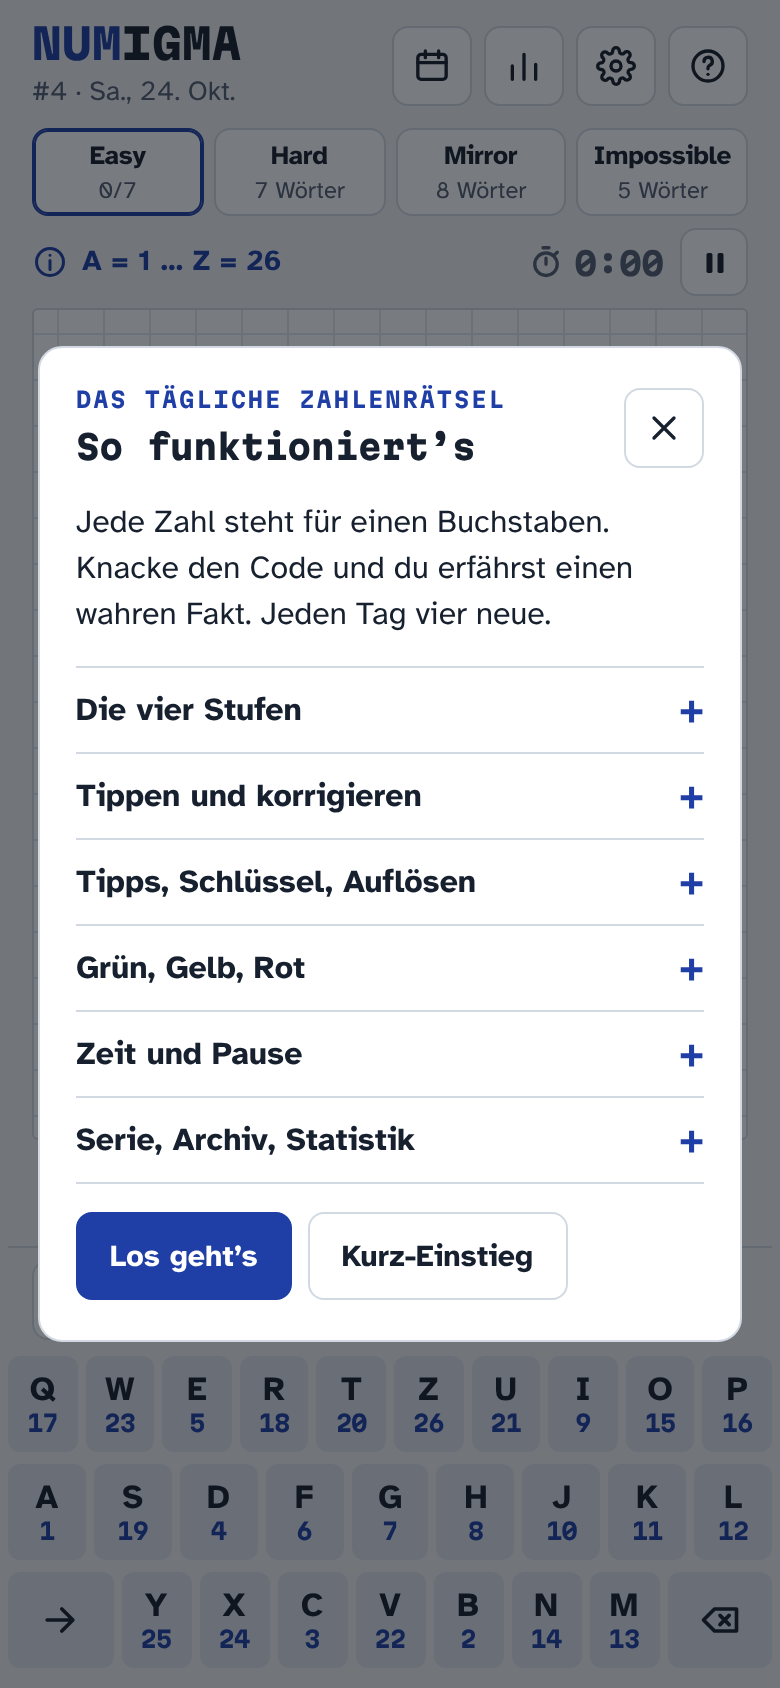
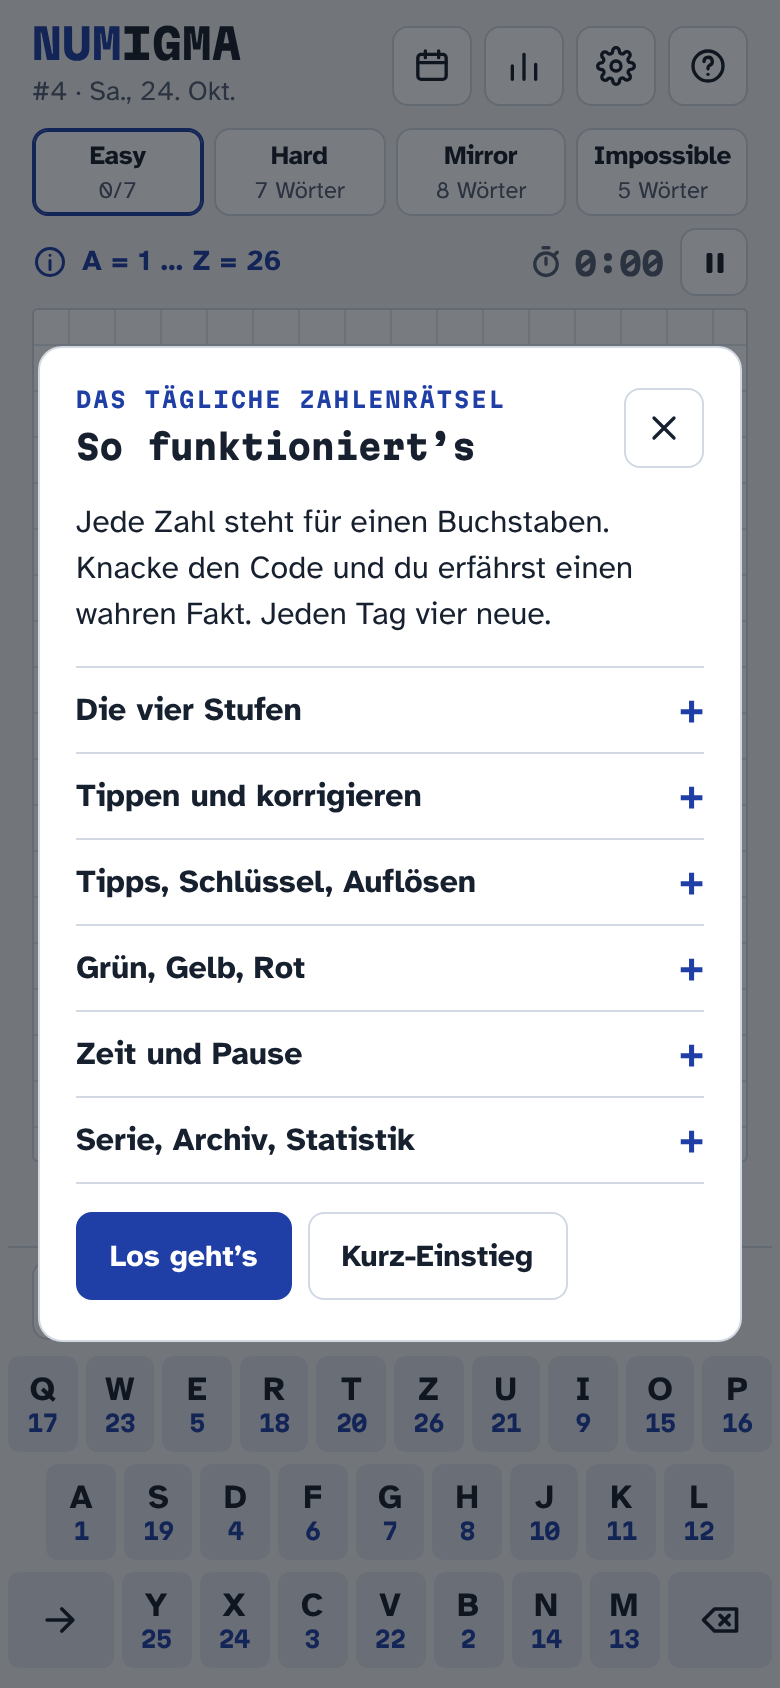
Feinschliff fürs Auge: Karopapier geht auf, Trennstrich mittig, Tasten gleich breit
Rückmeldung mit Bildschirmfotos (#9 Impossible, Android):
- Karopapier: links und rechts gleich viel Rand, das Blatt geht mit ganzen Kästchen auf.
  Vorher blieb rechts ein schmaler Streifen (bei 411 px etwa ein Sechstel Kästchen).
- Trennung bei Impossible: schmaler Strich genau in der Mitte zwischen zwei Ziffern und nur so hoch
  wie die Ziffern. Vorher klebte ein langer Balken an der nächsten Ziffer und reichte bis an die Kästchen.
- Tastatur wie eine echte: alle Buchstabentasten gleich breit, die mittlere Reihe um eine halbe Taste
  eingerückt. Seit es nur noch 26 Buchstaben gibt, waren die Tasten der mittleren Reihe breiter.
- Neuer Layout-Test misst das auf 320 bis 1280 px, hoch und quer, Deutsch und Englisch. Tests 67/67.

Claude-Session: https://claude.ai/code/session_01UizJ3MfA2PHDqjVNM3Cj6o

diff --git a/index.html b/index.html
@@ -153,9 +153,10 @@ a{color:var(--ink)}
 .w:focus-visible{outline:2px solid var(--ink);outline-offset:5px}
 .dr,.lr{display:flex;flex-wrap:wrap;position:relative;z-index:1}
 .dr{min-height:var(--cell)}
-.d{width:calc(var(--cell) / 2);height:var(--cell);display:grid;place-items:center;font-family:var(--display);font-weight:700;font-size:calc(var(--cell) * .54);color:var(--ink);font-variant-numeric:tabular-nums;line-height:1}
+.d{position:relative;width:calc(var(--cell) / 2);height:var(--cell);display:grid;place-items:center;font-family:var(--display);font-weight:700;font-size:calc(var(--cell) * .54);color:var(--ink);font-variant-numeric:tabular-nums;line-height:1}
 .easy .d{width:var(--cell);font-size:calc(var(--cell) * .5);letter-spacing:-.04em}
-.d.cut{box-shadow:inset 2px 0 0 var(--pencil)}
+/* Trennung: schmaler Strich genau in der Mitte zwischen zwei Ziffern, so hoch wie die Ziffern */
+.d.cut::before{content:"";position:absolute;left:-1px;top:24%;bottom:24%;width:2px;border-radius:1px;background:var(--pencil)}
 .c{width:var(--cell);height:var(--cell);display:grid;place-items:center;background:var(--cellbg);box-shadow:inset 0 0 0 1px var(--cellline);font-weight:700;font-size:calc(var(--cell) * .62);line-height:1;color:var(--text);user-select:none;-webkit-user-select:none}
 .c.hint{color:var(--pencil)}
 .w.act .c{box-shadow:inset 0 0 0 1px var(--ink)}
@@ -170,7 +171,7 @@ a{color:var(--ink)}
 .w.ok .d{color:var(--marker-text)}
 .w.ok .c.hint{color:var(--marker-text);opacity:.6}
 .w.ok .c,.w.ok .d{transition:color .1s .3s}
-.w.ok .d.cut{box-shadow:inset 2px 0 0 var(--marker-text)}
+.w.ok .d.cut::before{background:var(--marker-text)}
 .w.ok.helped .lr::after{content:"";position:absolute;right:-4px;top:-3px;width:7px;height:7px;border-radius:50%;background:var(--marker-text);opacity:.55}
 .w.given .c{color:var(--pencil);box-shadow:inset 0 -2px 0 0 var(--pencil);background:transparent}
 /* Gelöste und aufgelöste Wörter: Die Zahlen verschwinden, das Wort rückt in die Mitte. Größe bleibt gleich, damit nichts verrutscht. */
@@ -262,8 +263,10 @@ a{color:var(--ink)}
 .confirm .btn,.coach .btn{min-height:38px}
 .coach .btn{padding-inline:12px;min-height:34px}
 
-.kb{display:flex;flex-direction:column;gap:6px;user-select:none;-webkit-user-select:none}
-.kr{display:flex;gap:4px}
+.kb{--kgap:4px;display:flex;flex-direction:column;gap:6px;user-select:none;-webkit-user-select:none}
+.kr{display:flex;gap:var(--kgap)}
+/* Wie eine echte Tastatur: alle Buchstabentasten gleich breit, die mittlere Reihe (9 Tasten) um eine halbe Taste eingerückt */
+.kr.half{padding-inline:calc((100% + var(--kgap)) / 20)}
 .k{position:relative;flex:1 1 0;min-width:0;height:var(--kh)}
 .k > button{width:100%;height:100%;display:flex;flex-direction:column;align-items:center;justify-content:center;gap:2px;border:0;border-radius:6px;background:var(--key);color:var(--text);font-weight:700;font-size:1.05rem;line-height:1;cursor:pointer;touch-action:manipulation;padding:0;position:relative;overflow:hidden}
 .k > button b{font-weight:700;line-height:1}
@@ -295,7 +298,7 @@ a{color:var(--ink)}
   .tool{font-size:.8rem;padding:4px 6px;gap:4px}
   .tool svg{width:15px;height:15px}
   .pips i{width:7px;height:7px}
-  .kr{gap:3px}
+  .kb{--kgap:3px}
   .k > button{font-size:1rem}
   .card{padding:16px 14px}
 }
@@ -318,7 +321,7 @@ a{color:var(--ink)}
   .dock{grid-area:dock;align-self:end;border-top:0;margin:0;padding-block:8px 8px}
   .dock > .tools,.dock > .confirm,.dock > .coach{margin:0}
   .kb{gap:4px}
-  .kr{gap:3px}
+  .kb{--kgap:3px}
   .mode .n{font-size:.74rem;letter-spacing:-.02em}
   .mode .st{font-size:.7rem}
   .tools{gap:4px}
@@ -1145,12 +1148,15 @@ function layoutBoard() {
   const avail = board.clientWidth;
   if (!avail) return;
   const maxU = Math.max(...puz().words.map(w => wordUnits(w, current)));
-  // Normal: halbes Kästchen Rand. Wird es zu eng (sehr lange Wörter, schmale Handys), wird der Rand schmaler.
-  let cell = Math.floor((avail - 2) / (maxU + 1)), pad = null;
-  if (cell < 17) { pad = 6; cell = Math.floor((avail - 2 - 2 * pad) / maxU); }
+  // Normal: mindestens ein halbes Kästchen Rand. Wird es zu eng (sehr lange Wörter, schmale Handys), wird der Rand schmaler.
+  let cell = Math.floor((avail - 2) / (maxU + 1)), min = cell / 2;
+  if (cell < 17) { min = 6; cell = Math.floor((avail - 2 - 2 * min) / maxU); }
   cell = Math.max(15, Math.min(30, cell));
+  // Links und rechts gleich viel Rand, damit das Karopapier mit ganzen Kästchen aufgeht (kein schmaler Streifen am Rand)
+  const cols = Math.max(maxU, Math.floor((avail - 2 * min) / cell));
+  const pad = Math.max(0, Math.floor((avail - cols * cell) / 2));
   board.style.setProperty('--cell', cell + 'px');
-  if (pad) board.style.setProperty('--pad', pad + 'px'); else board.style.removeProperty('--pad');
+  board.style.setProperty('--pad', pad + 'px');
 }
 
 function updateWord(wi) {
@@ -1181,7 +1187,8 @@ function updateWord(wi) {
 
 function buildKeyboard() {
   const t = T();
-  $('#kb').innerHTML = t.keyrows.map(row => '<div class="kr">' + row.map(k => {
+  const half = row => row.length === t.keyrows[0].length - 1 && row.every(k => k.length === 1);   // mittlere Buchstabenreihe
+  $('#kb').innerHTML = t.keyrows.map(row => `<div class="kr${half(row) ? ' half' : ''}">` + row.map(k => {
     if (k === 'next') return `<div class="k wide" data-k="next"><button type="button" aria-label="${esc(t.nextWord)}">${ICON.next}</button></div>`;
     if (k === 'back') return `<div class="k wide" data-k="back"><button type="button" aria-label="${esc(t.backspace)}">${ICON.back}</button></div>`;
     return `<div class="k" data-k="${k}"><button type="button"><b>${k}</b><i aria-hidden="true"></i></button></div>`;

diff --git a/_dev/tests/layout.test.js b/_dev/tests/layout.test.js
@@ -156,3 +156,33 @@ test('Layout: die längsten Wörter des ganzen Vorrats passen auf 320 px in eine
   }
   assert.deepEqual(problems, []);
 });
+
+test('Layout: Karopapier geht mit ganzen Kästchen auf (gleicher Rand links und rechts), Trennstrich mittig, Buchstabentasten gleich breit', async () => {
+  for (const [width, height] of [[320, 568], [360, 740], [411, 836], [844, 390], [1280, 800]]) {
+    for (const lang of ['de', 'en']) {
+      const page = await openPage(env, { width, height, mobile: width < 800, url: (lang === 'en' ? 'en/' : '') + '?n=4&m=impossible' });
+      await page.click('#startBtn');
+      await page.click('#hintBtn');
+      if (await page.isVisible('#confirmYes')) await page.click('#confirmYes');
+      const r = await page.evaluate(() => {
+        const bd = document.querySelector('#board'), cs = getComputedStyle(bd);
+        const cell = parseFloat(cs.getPropertyValue('--cell')), pad = parseFloat(cs.getPropertyValue('--pad'));
+        const cols = (bd.clientWidth - 2 * pad) / cell;
+        const keys = [...document.querySelectorAll('#kb .k')].filter(k => k.dataset.k.length === 1).map(k => k.getBoundingClientRect().width);
+        const cut = document.querySelector('.d.cut'), prev = cut && cut.previousElementSibling;
+        let mid = null;
+        if (cut && prev) {
+          const line = getComputedStyle(cut, '::before'), c = cut.getBoundingClientRect(), p = prev.getBoundingClientRect();
+          mid = Math.abs((c.left + parseFloat(line.left) + parseFloat(line.width) / 2) - (p.right + c.left) / 2);
+        }
+        return { cell, pad, cols, keys: [Math.min(...keys), Math.max(...keys)], mid };
+      });
+      const tag = `${width}×${height} ${lang}`;
+      assert.ok(Math.abs(r.cols - Math.round(r.cols)) < 0.05, `${tag}: ${r.cols} Kästchen breit, Rand ${r.pad}px`);
+      assert.ok(r.pad >= 6, `${tag}: Rand ${r.pad}px`);
+      assert.ok(r.keys[1] - r.keys[0] <= 1, `${tag}: Tasten ${r.keys.join('–')}px breit`);
+      assert.ok(r.mid !== null && r.mid <= 1, `${tag}: Trennstrich ${r.mid}px neben der Mitte`);
+      await page.context().close();
+    }
+  }
+});
